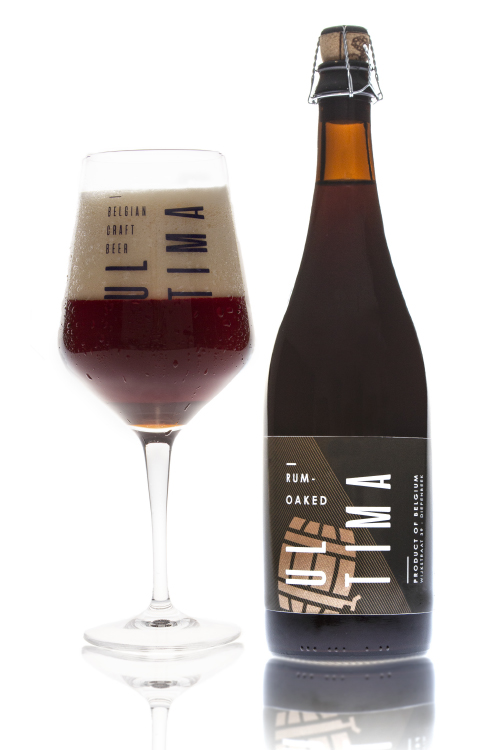
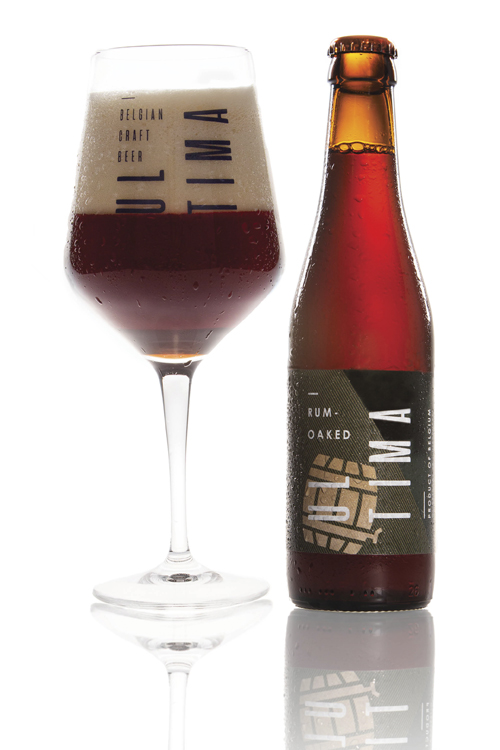
adjustments

diff --git a/index.html b/index.html
@@ -258,14 +258,14 @@
 									<div class="col-md-8 col-md-offset-2 fh5co-section-heading text-center">
 										<h2 class="fh5co-lead to-animate">Ultima Rum - Oaked</h2>
 										<p class="fh5co-sub to-animate" data-i18n="[html]rumOakedText">
-											Deze Barley Wine is een donker bier van 10% alcohol, gerijpt op eiken snippers met Belgische Rum Double aged van <a href ="https://www.ghostinabottle.be/" target="_blank" rel="noopener noreferrer">Ghost in a Bottle</a>. Een uniek smakenpallet van chocolade, vanille, rum, hout en zoveel meer. Dit bier is volledig artisanaal gebrouwen met een beperkte oplage van 640 flessen. Dit bier is enkel te verkrijgen in flessen van 75cl met kurken stop.<br>
+											Deze Barley Wine is een donker bier van 10% alcohol, gerijpt op eiken snippers met Belgische Rum Double aged van <a href ="https://www.ghostinabottle.be/" target="_blank" rel="noopener noreferrer">Ghost in a Bottle</a>. Een uniek smakenpallet van chocolade, vanille, rum, hout en zoveel meer. Dit bier is te verkrijgen in flesjes van 33cl en zolang de voorraad strekt in flessen van 75cl met kurken stop.<br>
 										</p>
 										<!-- <p class="fh5co-italc to-animate" data-i18n="dateRumOaked">
 											Anno december 2019
 										</p> -->
 									</div>
 									<!-- <div class="col-md-4 fh5co-text-wrap">
-										<div class="row text-center">
+										<div class="row text-center">yar
 											<div class="col-md-12 col-sm-12 col-xs-12 col-xxs-12 fh5co-text animate-object features-2-animate-3">
 												<span class="fh5co-icon"><i class="icon-fire"></i></span>
 												<h4 class="fh5co-uppercase-sm">Hoppen</h4>

diff --git a/js/translations/nl.js b/js/translations/nl.js
@@ -7,7 +7,7 @@ const translationsNl = {    // NEDERLANDSE vertaling verplicht
   dateDryHopped: 'Anno februari 2019',
   beeHoneyText: 'Een blond bier met toevoeging van honing van de Hasseltse <a href ="https://www.thehappybees.be/" target="_blank" rel="noopener noreferrer">Imkerij The Happy Bees. </a> Het bier bevat een zoete toets van de honing met licht kruidige aromaten. Dit blond bier geeft een warm mondgevoel. Het bier heeft een alcoholpercentage van 7% en is te verkrijgen in flesjes van 33cl.',
   dateBeeHoney: 'Anno december 2019',
-  rumOakedText: 'Deze Barley Wine is een donker bier van 10% alcohol, gerijpt op eiken snippers met Belgische Rum Double aged van <a href ="https://www.ghostinabottle.be/" target="_blank" rel="noopener noreferrer">Ghost in a Bottle</a>. Een uniek smakenpallet van chocolade, vanille, rum, hout en zoveel meer. Dit bier is volledig artisanaal gebrouwen met een beperkte oplage van 640 flessen. Dit bier is enkel te verkrijgen in flessen van 75cl met kurken stop.',
+  rumOakedText: 'Deze Barley Wine is een donker bier van 10% alcohol, gerijpt op eiken snippers met Belgische Rum Double aged van <a href ="https://www.ghostinabottle.be/" target="_blank" rel="noopener noreferrer">Ghost in a Bottle</a>. Een uniek smakenpallet van chocolade, vanille, rum, hout en zoveel meer. Dit bier is te verkrijgen in flesjes van 33cl en zolang de voorraad strekt in flessen van 75cl met kurken stop.',
   dateRumOaked: 'Anno december 2019',
   tryUltima: 'Probeer Ultima vandaag!',
   introUltima: 'Ultima al verkrijgbaar bij jou in de buurt? Als er verkooppunten ontbreken, laat ons dit gerust weten.',

diff --git a/js/translations/fr.js b/js/translations/fr.js
@@ -7,7 +7,7 @@ const translationsFr = {
   dateDryHopped: 'Depuis février 2019',
   beeHoneyText: 'Une bière blonde avec une touche de miel en provenance de l\'Apiculture d\'Hasselt <a href ="https://www.thehappybees.be/" target="_blank" rel="noopener noreferrer">The Happy Bees</a>. Cette bière a un léger goût de miel et d\'épices aromatisées. Elle vous laisse une impression de chaleur dans la bouche. Cette bière a un pourcentage de 7% d\'alcool et se vend en bouteilles de 33cl.',
   dateBeeHoney: 'Depuis décembre 2019',
-  rumOakedText: 'Cette Barley Wine est une bière foncée de 10% d\'alcool qui a mûri sur des copeaux de chêne avec la Rhum Belge Double Aged de <a href ="https://www.ghostinabottle.be/" target="_blank" rel="noopener noreferrer">Ghost in a Bottle</a>. Une palette unique de goûts: chocolat, vanille, rhum et bien d\'autres. Cette bière est brassée de façon artisanale avec une production réduite de 640 bouteilles. Cette bière se vend en bouteilles de 75cl avec bouchon.',
+  rumOakedText: 'Cette Barley Wine est une bière foncée de 10% d\'alcool qui a mûri sur des copeaux de chêne avec la Rhum Belge Double Aged de <a href ="https://www.ghostinabottle.be/" target="_blank" rel="noopener noreferrer">Ghost in a Bottle</a>. Une palette unique de goûts: chocolat, vanille, rhum et bien d\'autres. Cette bière se vend en bouteilles de 33cl avec bouchon.',
   dateRumOaked: 'Depuis décembre 2019',
   tryUltima: 'Essayez Ultima aujourd\'hui!',
   introUltima: 'Ultima déjà disponible dans votre région? S\'il manque des points de vente, n\'hésitez pas et contactez-nous!',

diff --git a/js/translations/en.js b/js/translations/en.js
@@ -7,8 +7,7 @@ const translationsEn = {
   dateDryHopped: 'Anno February 2019',
   beeHoneyText: 'A blond beer with addition of Belgian honey from the beekeeping <a href ="https://www.thehappybees.be/" target="_blank" rel="noopener noreferrer">The Happy Bees</a> located in Hasselt. The beer contains the sweetness from the honey and light herbal aromatics. It has an alcohol percentage of 7% and is available in 33cl bottles.',
   dateBeeHoney: 'Anno December 2019',
-  rumOakedText: 'This Barley Wine with 10% of alcohol is a dark beer that has matured on oak chips, soaked in Belgian Rum Double aged from <a href ="https://www.ghostinabottle.be/" target="_blank" rel="noopener noreferrer">Ghost in a Bottle</a>. A unique palette of flavours including chocolate, vanilla, wood and many more. This whole-craft beer is brewed as a limited edition of 640 bottles. They’re only available in 75cl bottles.',
-  dateRumOaked: 'Anno December 2019',
+  rumOakedText: 'This Barley Wine with 10% of alcohol is a dark beer that has matured on oak chips, soaked in Belgian Rum Double aged from <a href ="https://www.ghostinabottle.be/" target="_blank" rel="noopener noreferrer">Ghost in a Bottle</a>. A unique palette of flavours including chocolate, vanilla, wood and many more. They’re available in 33cl bottles.',  dateRumOaked: 'Anno December 2019',
   tryUltima: 'Try Ultima today!',
   introUltima: 'Ultima already available in your area? If there are missing outlets, don\'t hesitate and contact us!',
   findUltima: 'Find Ultima!',
